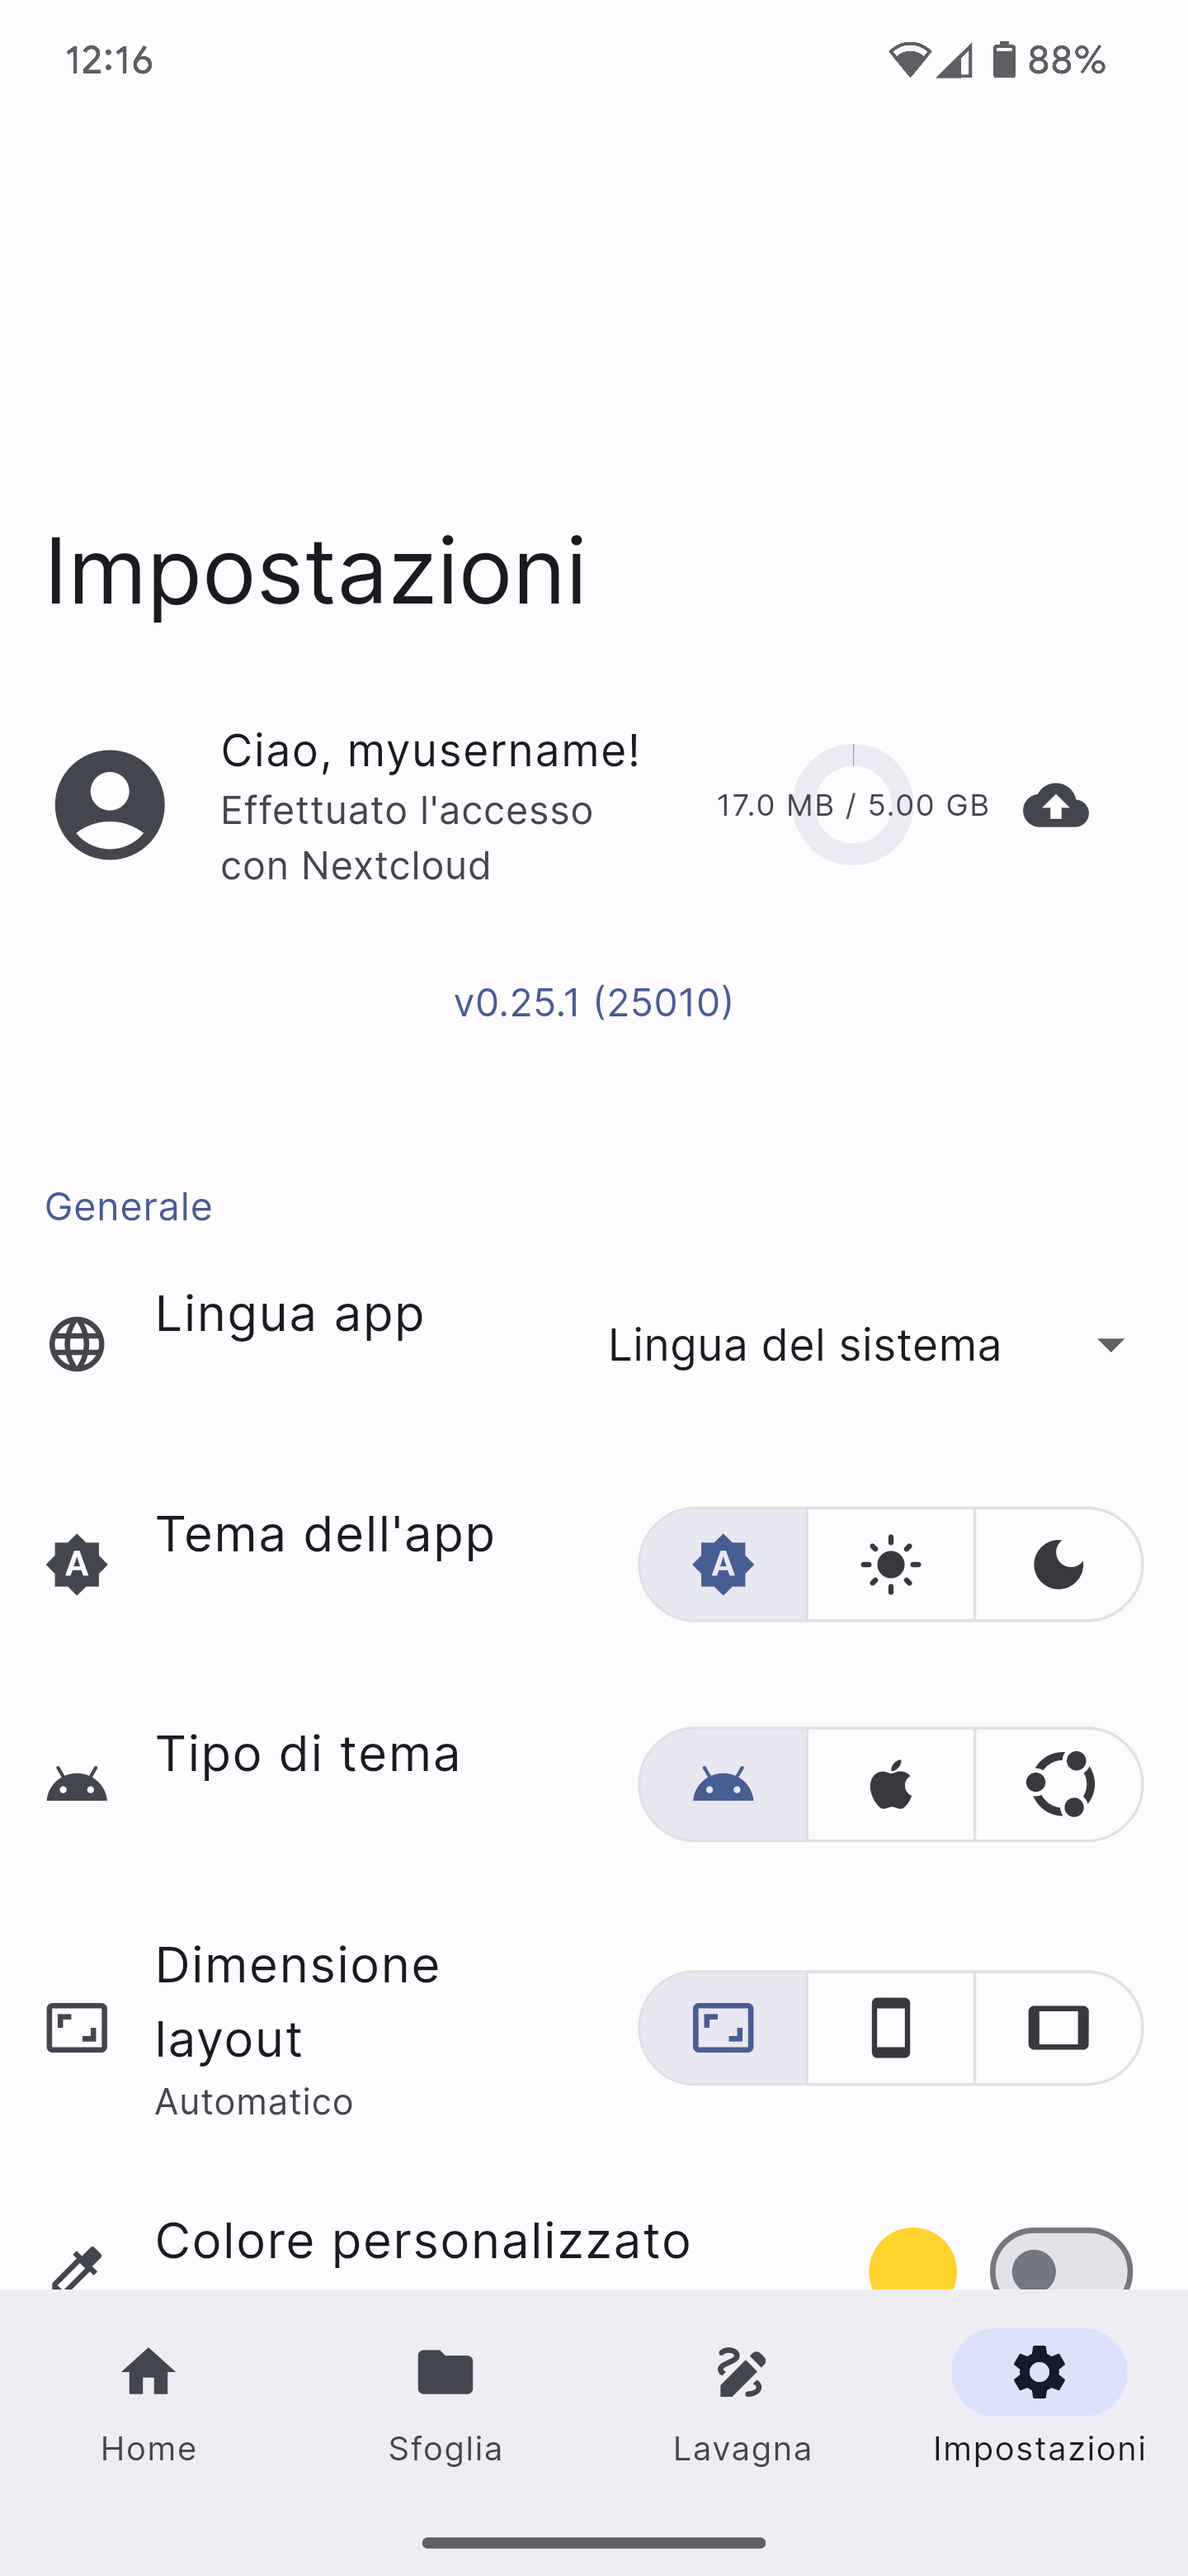
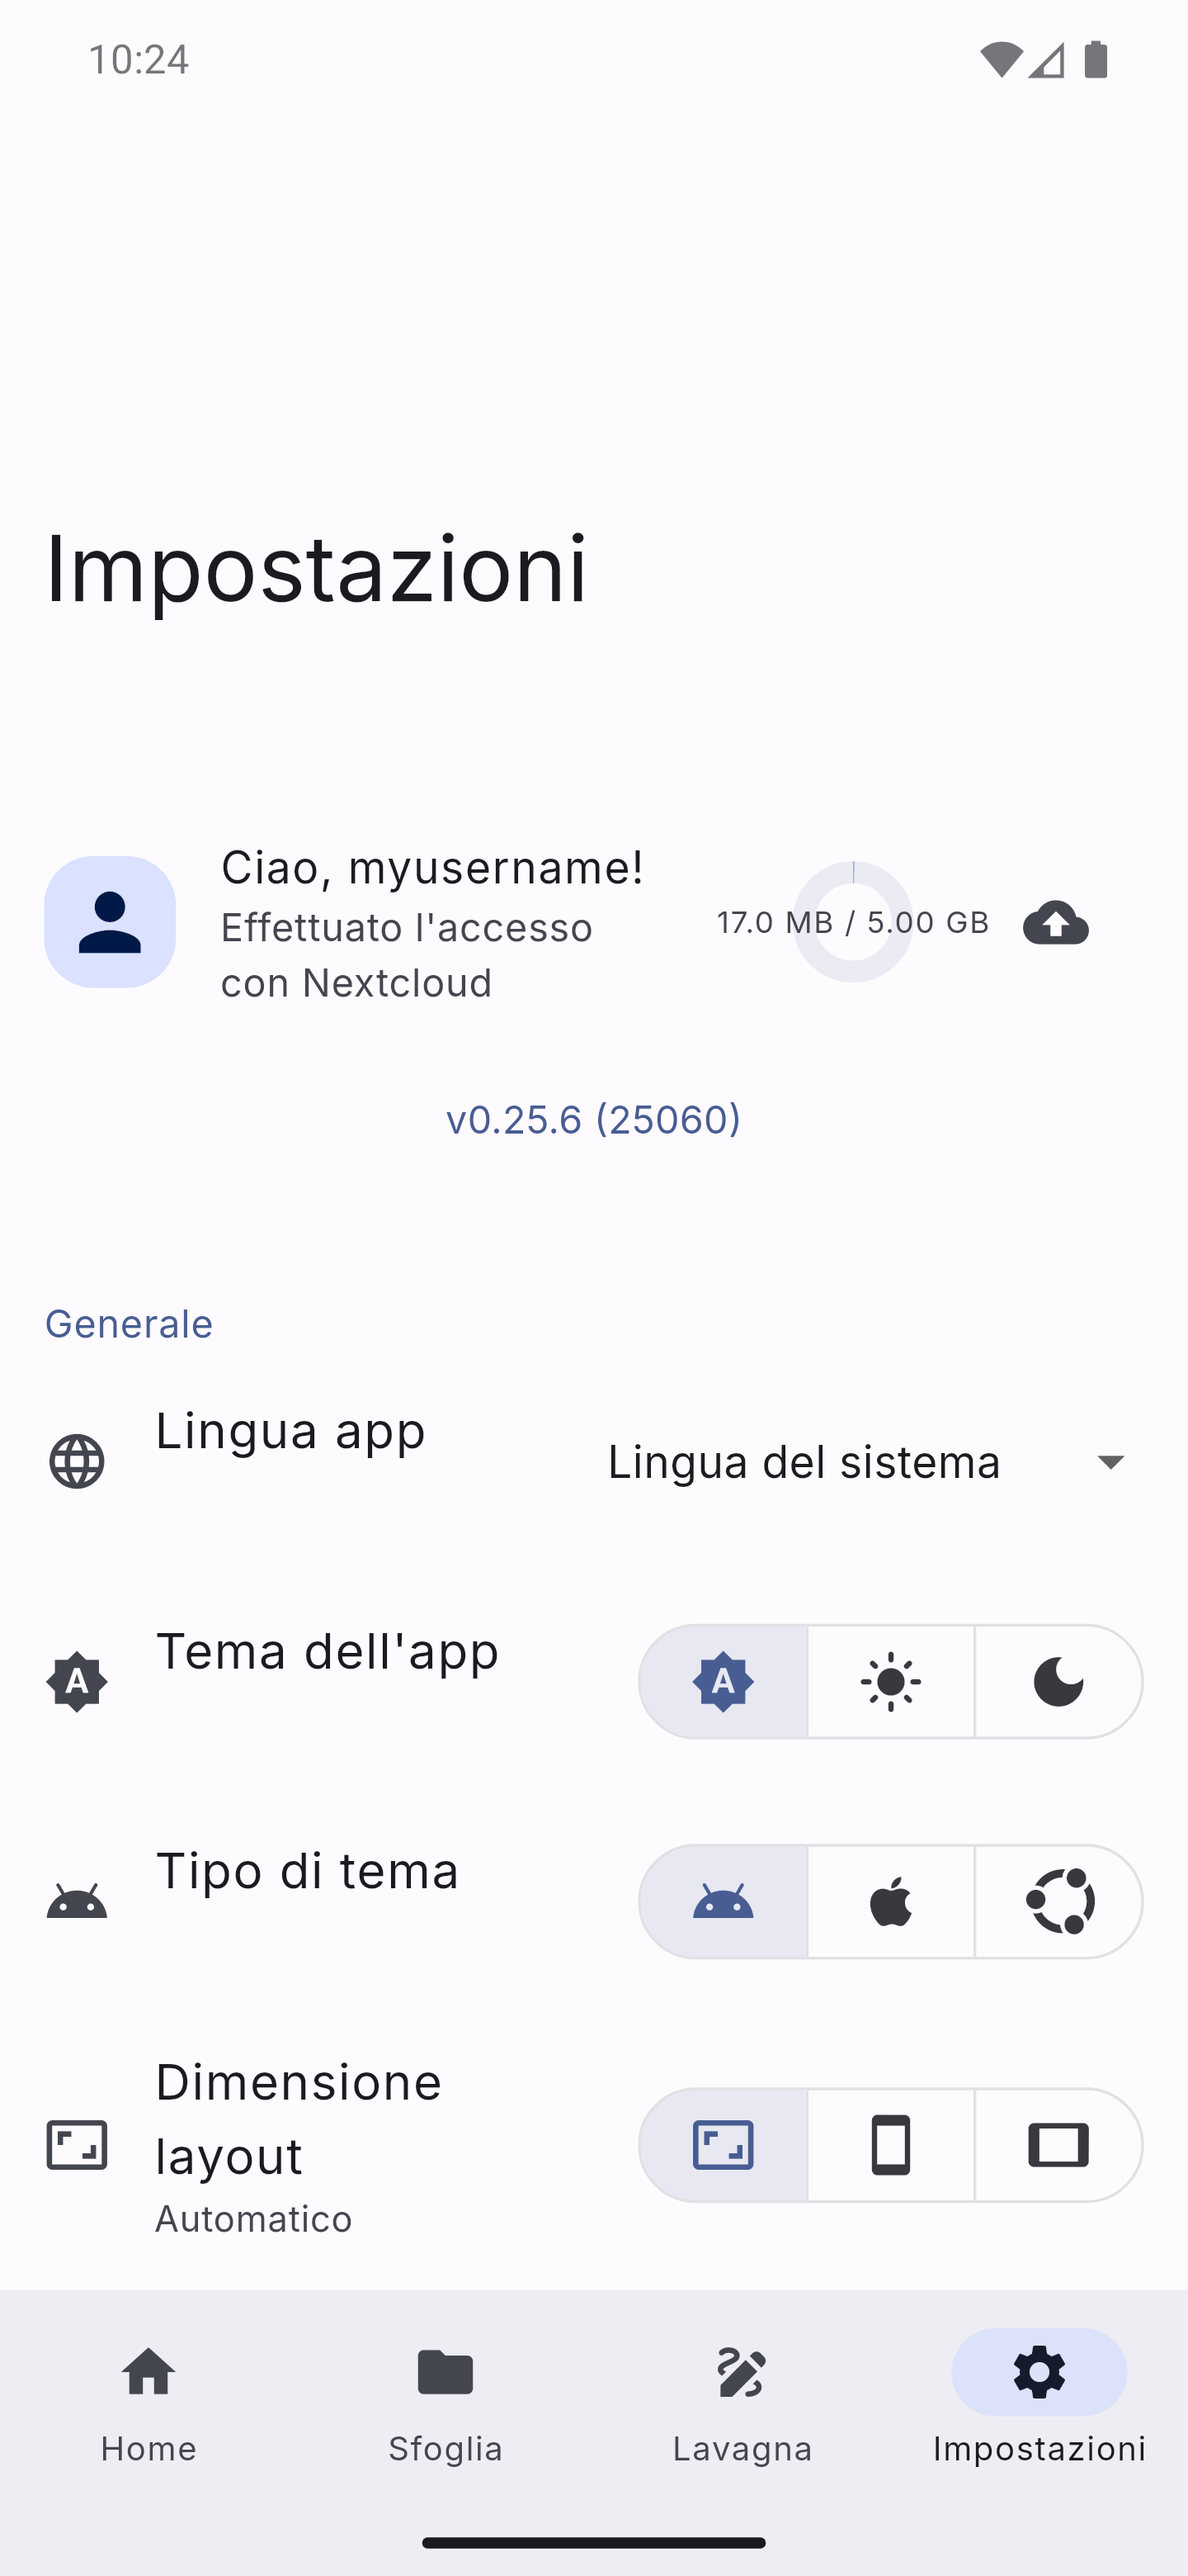
Tweak: Use ios-style squircle for profile pic

diff --git a/lib/components/settings/nextcloud_profile.dart b/lib/components/settings/nextcloud_profile.dart
@@ -76,22 +76,16 @@ class _NextcloudProfileState extends State<NextcloudProfile> {
       leading: ValueListenableBuilder(
         valueListenable: Prefs.pfp,
         builder: (BuildContext context, Uint8List? pfp, _) {
-          if (pfp == null) {
-            return const Icon(Icons.account_circle, size: 48);
-          } else {
-            return ClipPath(
-              clipper: ShapeBorderClipper(
-                shape: ContinuousRectangleBorder(
-                  borderRadius: BorderRadius.circular(40),
-                ),
-              ),
-              child: Image.memory(
-                pfp,
-                width: 48,
-                height: 48,
-              ),
-            );
-          }
+          return ClipRSuperellipse(
+            borderRadius: BorderRadius.circular(18),
+            child: pfp == null
+                ? const _UnknownPfp(size: 48)
+                : Image.memory(
+                    pfp,
+                    width: 48,
+                    height: 48,
+                  ),
+          );
         },
       ),
       title: Text(heading),
@@ -171,5 +165,28 @@ class _NextcloudProfileState extends State<NextcloudProfile> {
     final used = readableBytes(quota?.used);
     final total = readableBytes(quota?.total);
     return '$used / $total';
+  }
+}
+
+class _UnknownPfp extends StatelessWidget {
+  const _UnknownPfp({required this.size});
+
+  final double size;
+
+  @override
+  Widget build(BuildContext context) {
+    final colorScheme = ColorScheme.of(context);
+    return SizedBox(
+      width: size,
+      height: size,
+      child: ColoredBox(
+        color: colorScheme.primaryContainer,
+        child: Icon(
+          Icons.person,
+          color: colorScheme.onPrimaryContainer,
+          size: size * 0.7,
+        ),
+      ),
+    );
   }
 }
